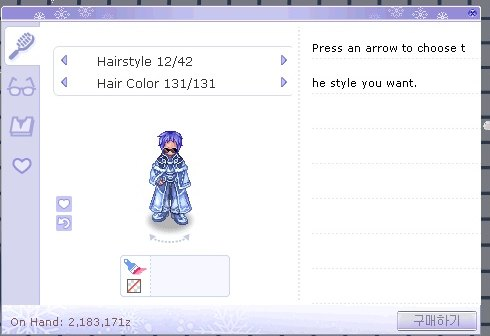
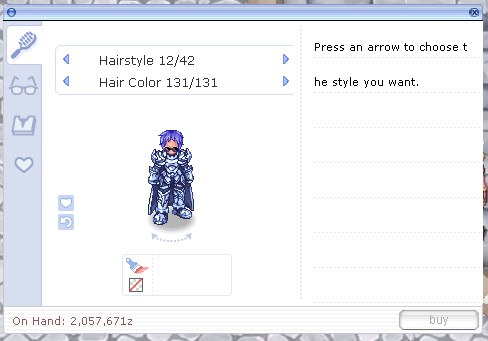
fitur native: Social & Profile (4 tab, foto latar profil diblur), Stylist 4 tab

diff --git a/assets/js/data.js b/assets/js/data.js
@@ -231,6 +231,20 @@ window.NATIVE_UI = [
     }
   },
   {
+    name: { en: "Social & Profile", id: "Social & Profil" },
+    image: "assets/images/native/social-profile.jpg",
+    pages: [
+      { label: "My profile", image: "assets/images/native/social-profile.jpg" },
+      { label: "For You", image: "assets/images/native/social-foryou.jpg" },
+      { label: "Feed", image: "assets/images/native/social-feed.jpg" },
+      { label: "Friend", image: "assets/images/native/social-friend.jpg" }
+    ],
+    text: {
+      en: "A small social network inside the game. Profiles show gear score, Battlepass level, MVP kills, rank, achievements and MVP trophies, with custom backgrounds for VIP and GM. Bio updates become posts players can love in For You and Feed, and the Friend tab uses the game's own friend list, with suggestions from party and guild.",
+      id: "Jejaring sosial kecil di dalam game. Profil nampilin gear score, level Battlepass, kill MVP, rank, achievement, dan trofi MVP, dengan latar custom buat VIP dan GM. Update bio jadi postingan yang bisa di-love di For You dan Feed, dan tab Friend pakai friend list asli game, plus saran dari party dan guild."
+    }
+  },
+  {
     name: "Auto Potion",
     image: "assets/images/native/autopotion.jpg",
     text: {
@@ -269,9 +283,15 @@ window.NATIVE_UI = [
   {
     name: "Stylist",
     image: "assets/images/native/stylist.jpg",
+    pages: [
+      { label: { en: "Hair", id: "Rambut" }, image: "assets/images/native/stylist.jpg" },
+      { label: { en: "Accessories", id: "Aksesori" }, image: "assets/images/native/stylist-accessories.jpg" },
+      { label: "Outfit", image: "assets/images/native/stylist-outfit.jpg" },
+      { label: "Wardrobe", image: "assets/images/native/stylist-wardrobe.jpg" }
+    ],
     text: {
-      en: "The built-in stylist, fixed: numbered hairstyle and hair-colour pickers and an outfit tab that works for every job.",
-      id: "Stylist bawaan yang sudah diperbaiki: pilihan gaya dan warna rambut bernomor, plus tab outfit yang jalan di semua job."
+      en: "The built-in stylist, fixed and extended: numbered pickers for 42 hairstyles, 131 hair colours and 668 clothing colours, an outfit tab that works for every job, accessories, and a wardrobe of saved looks.",
+      id: "Stylist bawaan yang sudah diperbaiki dan ditambah: pilihan bernomor untuk 42 gaya rambut, 131 warna rambut, dan 668 warna baju, tab outfit yang jalan di semua job, aksesori, dan wardrobe buat simpan tampilan."
     }
   },
   {
@@ -286,7 +306,6 @@ window.NATIVE_UI = [
 
 // Built and running, no screenshot on the page yet.
 window.NATIVE_MORE = [
-  { name: { en: "Profile & Social", id: "Profil & Social" }, text: { en: "Player profiles with bio and custom VIP/GM backgrounds", id: "Profil pemain dengan bio dan latar custom VIP/GM" } },
   { name: { en: "Nick colours & rank emblems", id: "Warna nick & emblem rank" }, text: { en: "Coloured names and chat bubbles, rank badges", id: "Nama dan balon chat berwarna, badge rank" } },
   { name: { en: "Skill visuals", id: "Visual skill" }, text: { en: "Per-player skill effects from the Skill gear slots", id: "Efek skill per pemain dari slot gear Skill" } },
   { name: { en: "GO menu", id: "Menu GO" }, text: { en: "One button next to the cash shop that opens every custom window", id: "Satu tombol di samping cash shop buat buka semua window custom" } }

diff --git a/index.html b/index.html
@@ -14,7 +14,7 @@
   <link rel="preconnect" href="https://fonts.googleapis.com">
   <link rel="preconnect" href="https://fonts.gstatic.com" crossorigin>
   <link href="https://fonts.googleapis.com/css2?family=Oxanium:wght@400;500;600;700;800&family=Work+Sans:wght@400;600&display=swap" rel="stylesheet">
-  <link rel="stylesheet" href="assets/css/style.css?v=20261029h">
+  <link rel="stylesheet" href="assets/css/style.css?v=20261029i">
 </head>
 
 <body>
@@ -204,8 +204,8 @@
     <svg viewBox="0 0 24 24" width="22" height="22" aria-hidden="true"><path d="M12 5l-7 7h4v7h6v-7h4z" fill="currentColor"/></svg>
   </a>
 
-  <script src="assets/js/data.js?v=20261029h"></script>
-  <script src="assets/js/i18n.js?v=20261029h"></script>
-  <script src="assets/js/script.js?v=20261029h"></script>
+  <script src="assets/js/data.js?v=20261029i"></script>
+  <script src="assets/js/i18n.js?v=20261029i"></script>
+  <script src="assets/js/script.js?v=20261029i"></script>
 </body>
 </html>

diff --git a/contact/thanks/index.html b/contact/thanks/index.html
@@ -12,7 +12,7 @@
   <link rel="preconnect" href="https://fonts.googleapis.com">
   <link rel="preconnect" href="https://fonts.gstatic.com" crossorigin>
   <link href="https://fonts.googleapis.com/css2?family=Oxanium:wght@400;500;600;700;800&family=Work+Sans:wght@400;600&display=swap" rel="stylesheet">
-  <link rel="stylesheet" href="../../assets/css/style.css?v=20261029h">
+  <link rel="stylesheet" href="../../assets/css/style.css?v=20261029i">
 </head>
 
 <body>
@@ -46,8 +46,8 @@
     </section>
   </main>
 
-  <script src="../../assets/js/data.js?v=20261029h"></script>
-  <script src="../../assets/js/i18n.js?v=20261029h"></script>
-  <script src="../../assets/js/contact.js?v=20261029h"></script>
+  <script src="../../assets/js/data.js?v=20261029i"></script>
+  <script src="../../assets/js/i18n.js?v=20261029i"></script>
+  <script src="../../assets/js/contact.js?v=20261029i"></script>
 </body>
 </html>

diff --git a/contact/index.html b/contact/index.html
@@ -14,7 +14,7 @@
   <link rel="preconnect" href="https://fonts.googleapis.com">
   <link rel="preconnect" href="https://fonts.gstatic.com" crossorigin>
   <link href="https://fonts.googleapis.com/css2?family=Oxanium:wght@400;500;600;700;800&family=Work+Sans:wght@400;600&display=swap" rel="stylesheet">
-  <link rel="stylesheet" href="../assets/css/style.css?v=20261029h">
+  <link rel="stylesheet" href="../assets/css/style.css?v=20261029i">
 </head>
 
 <body>
@@ -118,8 +118,8 @@
     </div>
   </footer>
 
-  <script src="../assets/js/data.js?v=20261029h"></script>
-  <script src="../assets/js/i18n.js?v=20261029h"></script>
-  <script src="../assets/js/contact.js?v=20261029h"></script>
+  <script src="../assets/js/data.js?v=20261029i"></script>
+  <script src="../assets/js/i18n.js?v=20261029i"></script>
+  <script src="../assets/js/contact.js?v=20261029i"></script>
 </body>
 </html>

diff --git a/moro/index.html b/moro/index.html
@@ -14,7 +14,7 @@
   <link rel="preconnect" href="https://fonts.googleapis.com">
   <link rel="preconnect" href="https://fonts.gstatic.com" crossorigin>
   <link href="https://fonts.googleapis.com/css2?family=Oxanium:wght@400;500;600;700;800&family=Work+Sans:wght@400;500;600&display=swap" rel="stylesheet">
-  <link rel="stylesheet" href="assets/moro.css?v=20261029h">
+  <link rel="stylesheet" href="assets/moro.css?v=20261029i">
 </head>
 
 <body>
@@ -229,6 +229,6 @@
     </div>
   </footer>
 
-  <script src="assets/moro.js?v=20261029h"></script>
+  <script src="assets/moro.js?v=20261029i"></script>
 </body>
 </html>
